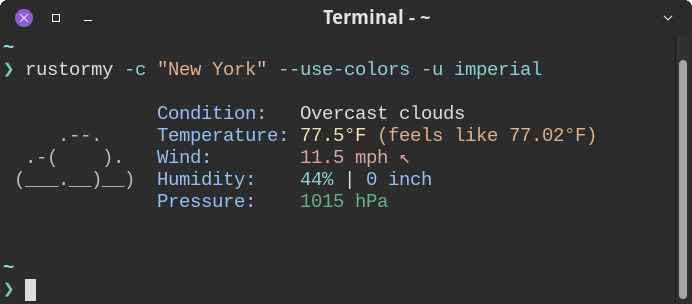
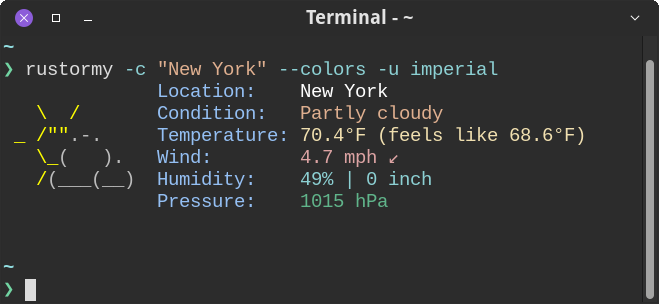
:memo: Update docs for v0.2.0

diff --git a/src/config.rs b/src/config.rs
@@ -12,7 +12,7 @@ use std::fs;
 use std::path::PathBuf;
 
 #[allow(clippy::struct_excessive_bools)]
-#[derive(Debug, Default, Clone, Serialize, Deserialize)]
+#[derive(Debug, Clone, Serialize, Deserialize)]
 pub struct Config {
     #[serde(default)]
     provider: Provider,
@@ -62,6 +62,28 @@ pub struct Config {
 
 fn default_live_mode_interval() -> u64 {
     300
+}
+
+impl Default for Config {
+    fn default() -> Self {
+        Self {
+            provider: Provider::default(),
+            api_key: None,
+            city: None,
+            lat: None,
+            lon: None,
+            units: Units::default(),
+            output_format: OutputFormat::default(),
+            language: Language::default(),
+            show_city_name: false,
+            use_colors: false,
+            use_degrees_for_wind: false,
+            text_mode: TextMode::default(),
+            compact_mode: None,
+            live_mode: false,
+            live_mode_interval: default_live_mode_interval(),
+        }
+    }
 }
 
 impl Config {

diff --git a/README.md b/README.md
@@ -114,7 +114,11 @@ Options:
       --degrees
           Use degrees for wind direction in output
       --compact
-          Compact mode for text output
+          Compact mode for text output (short for `--text-mode compact`)
+      --one-line
+          One-line mode for text output (short for `--text-mode one_line`)
+  -m, --text-mode <TEXT_MODE>
+          Text output mode [possible values: full, compact, one_line]
   -l, --live
           Live mode - continuously update weather data every 5 minutes (or specified interval)
   -i, --interval <LIVE_MODE_INTERVAL>
@@ -129,9 +133,10 @@ Options:
 ## Examples
 
 ![Basic usage: `rustormy -c London`](.github/assets/basic.png)
-![Colors: `rustormy -c Batumi --use-colors`](.github/assets/colors.png)
-![Imperial units: `rustormy -c "New York" --use-colors -u imperial`](.github/assets/imperial.png)
-![Spanish translation: `rustormy -c Valparaiso -g es --use-colors --show-city-name`](.github/assets/spanish.png)
+![Colors: `rustormy -c Milan --colors`](.github/assets/colors.png)
+![Imperial units: `rustormy -c "New York" --colors -u imperial`](.github/assets/imperial.png)
+![Spanish translation: `rustormy -c Valparaiso -g es --name --colors`](.github/assets/spanish.png)
+![Compact and one-line modes](.github/assets/compact.png)
 ![JSON output: `rustormy -c Ajax -o json`](.github/assets/json.png)
 
 ## License

diff --git a/CHANGELOG.md b/CHANGELOG.md
@@ -4,7 +4,7 @@ All notable changes to this project will be documented in this file.
 See [Keep a Changelog](https://keepachangelog.com/) for details.
 This project adheres to [Semantic Versioning](https://semver.org/).
 
-## [Upcoming] - Unreleased
+## [0.2.0] - 2025-08-28
 
 ### Added
 
